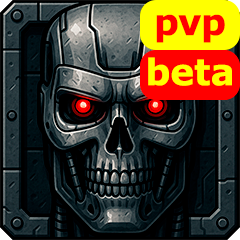
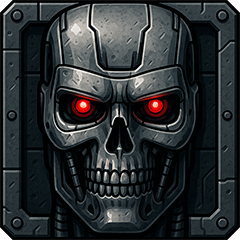
v2.0: mobile devices support

Changed region(s): [[0.5833, 0.0, 1.0, 0.4667], [0.3208, 0.3792, 0.3792, 0.4667]]

diff --git a/src/machindustry/Machindustry.java b/src/machindustry/Machindustry.java
@@ -14,7 +14,6 @@ import arc.graphics.g2d.Draw;
 import arc.graphics.g2d.Fill;
 import arc.input.InputProcessor;
 import arc.input.KeyCode;
-import arc.math.Mat;
 import arc.math.Mathf;
 import arc.math.geom.Vec2;
 import arc.scene.Element;
@@ -2999,12 +2998,8 @@ public class Machindustry extends Mod
 			Core.settings.getBool(_buildLiquidTransportName)
 		);
 
-		if (Vars.mobile && _touch
-			&& ((_beamButton && _beamFirstPoint != null)
-			|| (_liquidButton && _liquidFirstPoint != null)
-			|| (_solidButton && _solidFirstPoint != null)
-			|| (_takeButton && _takeFirstPoint != null)
-			|| (_ventButton && _ventFirstPoint != null)))
+		if (Vars.mobile && _touch && ((_beamButton && _beamFirstPoint != null) || (_liquidButton && _liquidFirstPoint != null)
+			|| (_solidButton && _solidFirstPoint != null) || (_takeButton && _takeFirstPoint != null) || (_ventButton && _ventFirstPoint != null)))
 		{
 			final float multiplier = Core.camera.height + Core.camera.width;
 			final Vec2 vec2 = Core.input.mouse();

diff --git a/README.md b/README.md
@@ -1,6 +1,6 @@
 # Machindustry
 
-This mod is focused on the quality of the game in PvP mode on the planet Erekir. It is not intended for mobile devices.
+This mod is focused on the quality of the game in PvP mode on the planet Erekir.
 
 ## Features
 
@@ -22,6 +22,3 @@ Will this mod work with any other content besides Erekir (like Asthosus)?<br>
 
 Will there be a version of this mod for Serpulo?<br>
 **No**[](/ "Unless someone reworks these algorithms for Serpulo")
-
-Will there be a version of this mod for mobile devices?<br>
-**Mb**
